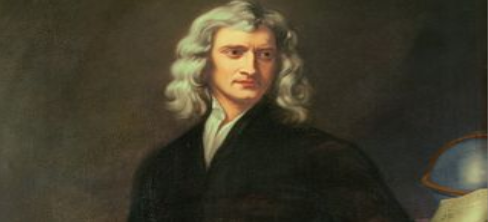
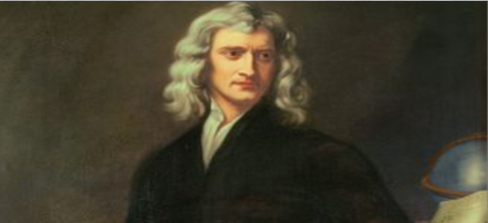
customized carousel and changed pictures

diff --git a/index.html b/index.html
@@ -6,6 +6,7 @@
     <title>Bootstrap demo</title>
     <link href="https://cdn.jsdelivr.net/npm/bootstrap@5.3.2/dist/css/bootstrap.min.css" rel="stylesheet" integrity="sha384-T3c6CoIi6uLrA9TneNEoa7RxnatzjcDSCmG1MXxSR1GAsXEV/Dwwykc2MPK8M2HN" crossorigin="anonymous">
     <link rel="stylesheet" href="style.css">
+    <link rel="stylesheet" href="https://use.typekit.net/fjf4moe.css">
   </head>
   <body>
      <!--beg of nav-->
@@ -47,7 +48,7 @@
       </div>
       <div class="carousel-inner">
         <div class="carousel-item active">
-          <img src="physics5.png" class="d-block w-100" alt="...">
+          <img src="isaac newton 2.png" class="d-block w-100" alt="...">
           <div class="carousel-caption d-none d-md-block">
             <h5>Isaac Newton</h5>
             <p>Isaac Newton, an English mathematician, physicist, and astronomer, is widely recognized as one of the most influential scientists in history. His groundbreaking work laid the foundation for classical mechanics and the law of universal gravitation, revolutionizing our understanding of the physical world.</p>
@@ -63,7 +64,7 @@
           </div>
         </div>
         <div class="carousel-item">
-          <img src="solar systems.png" class="d-block w-100" alt="...">
+          <img src="isaac_newton_3-transformed.png" class="d-block w-100" alt="...">
           <div class="carousel-caption d-none d-md-block">
             <h5>Isaac Newton</h5>
             <p>Isaac Newton, an English mathematician, physicist, and astronomer, is widely recognized as one of the most influential scientists in history. His groundbreaking work laid the foundation for classical mechanics and the law of universal gravitation, revolutionizing our understanding of the physical world.</p>

diff --git a/style.css b/style.css
@@ -1,0 +1,51 @@
+.carousel-item{
+    height:100vh;
+    min-height:300px;
+    background:no-repeat center center scroll;
+    -webkit-background-size:cover;
+    background-size:cover;
+   
+}
+.carousel-caption{
+   bottom: 45px; 
+}
+.carousel-caption h5{
+    font-size:45px;
+    text-transform:uppercase;
+    letter-spacing:2px;
+    margin-top:25px;
+    font-family: "antiquarian-scribe", sans-serif;
+    font-weight: 400;
+    font-style: normal;
+}
+.carousel-caption p{
+    width:60%;
+    margin:auto;
+    font-size: 18px;
+    line-height:1.9;
+    font-family: "antiquarian", sans-serif;
+    font-weight: 400;
+    font-style: normal;
+}
+.carousel-caption a{
+    text-transform:uppercase;
+    background:#565656;
+    padding:10px 30px;
+    display:inline-block;
+    color:#1A1A2A;
+    margin-top:10;
+
+}
+.navbar-nav-a{
+    font-family: "antiquarian", sans-serif;
+    font-size:18px;
+    text-transform:uppercase;
+    font-weight:bold;
+}
+.navbar-light .navbar-brand{
+    color:#1A1A2A;
+    font-size:25px;
+    text-transform:uppercase;
+    font-weight:bold;
+    letter-spacing:2px
+}
